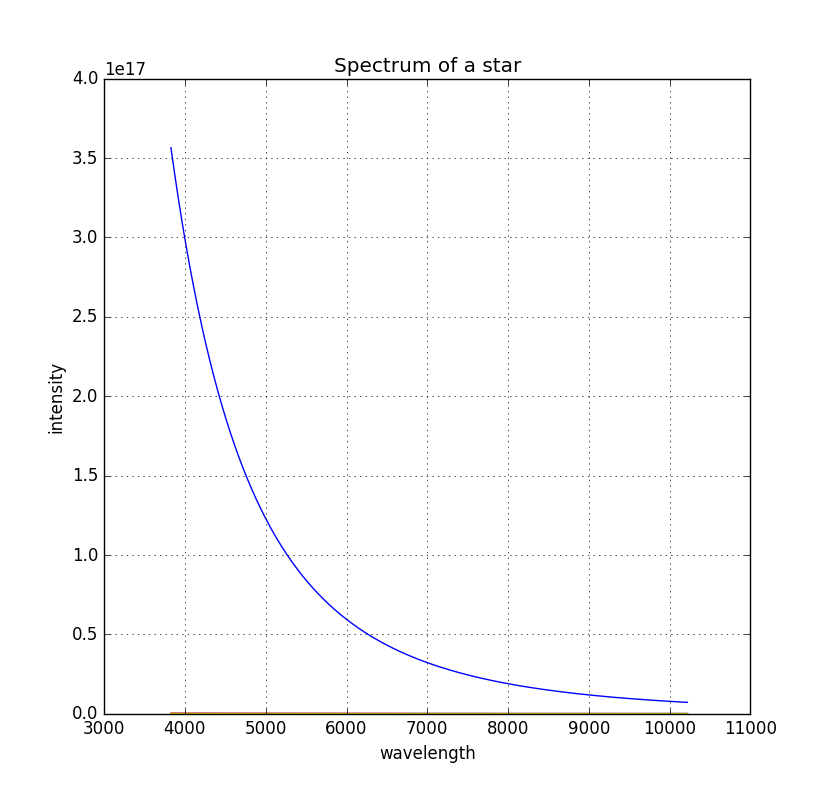
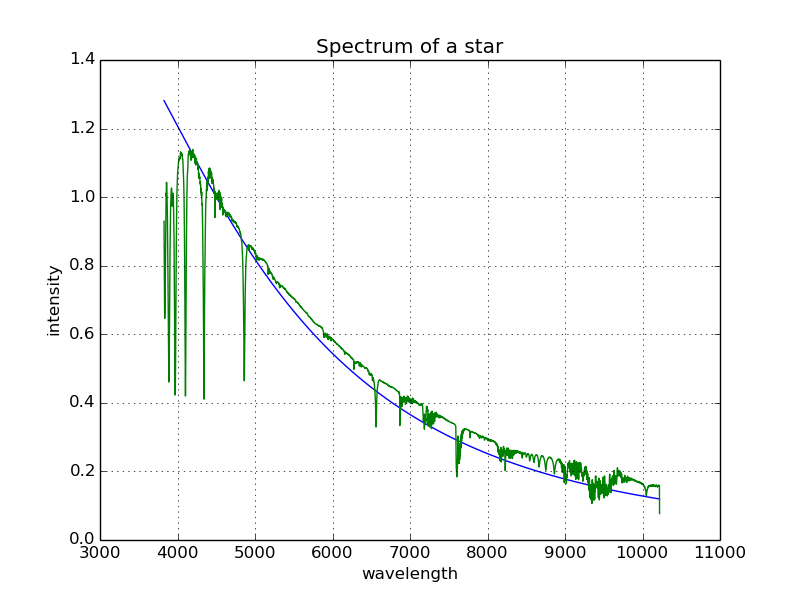
Can calculate mean square difference

diff --git a/stellar_beta.py b/stellar_beta.py
@@ -16,10 +16,25 @@ def planckEquation(wl, temp):
     wl = wl*1e-10
     return (2*h*c*c)/(math.pow(wl,5)) * 1/( math.exp((h*c)/(wl*kB*temp)) - 1)
 
+def getMeanSquareDif(pEs, ys, startOfRed):
+    total = 0
+    for i in range(startOfRed, len(pEs)):
+        total = total + (pEs[i] - ys[i])*(pEs[i] - ys[i])
 
+    return total
 
-    
-    
+def generatePlankCurve(temp, xs, startOfRed):
+    pEs = []
+    for i in range(len(xs)):
+        pEs.append(planckEquation(xs[i], temp))
+
+    #normalising values
+    pEs_normalising_factor = pEs[startOfRed]
+
+    for i in range(len(xs)):
+        pEs[i] = pEs[i]/pEs_normalising_factor
+
+    return pEs
 
 # reading in file and producing plot
 lines = [line.rstrip('\n').split('\t') for line in open('star_spec.dat.txt')]
@@ -27,15 +42,25 @@ lines = [line.rstrip('\n').split('\t') for line in open('star_spec.dat.txt')]
 xs = []
 ys = []
 
+
 for line in lines:
     xs.append(float(line[0]))
     ys.append(float(line[1]))
     
-pEs = []
-
+#get index of 4500 A
 for i in range(len(xs)):
-    pEs.append(planckEquation(xs[i], 1000))
+    if xs[i] > 4500:
+        startOfRed = i
+        break
 
+ys_normal =  ys[startOfRed]
+
+#normalising y values:
+for i in range(len(xs)):
+    ys[i] = ys[i]/ys_normal
+
+pEs = generatePlankCurve(11000, xs, startOfRed)
+print getMeanSquareDif(pEs, ys, startOfRed)
 
 
 plt.plot(xs, pEs)    
